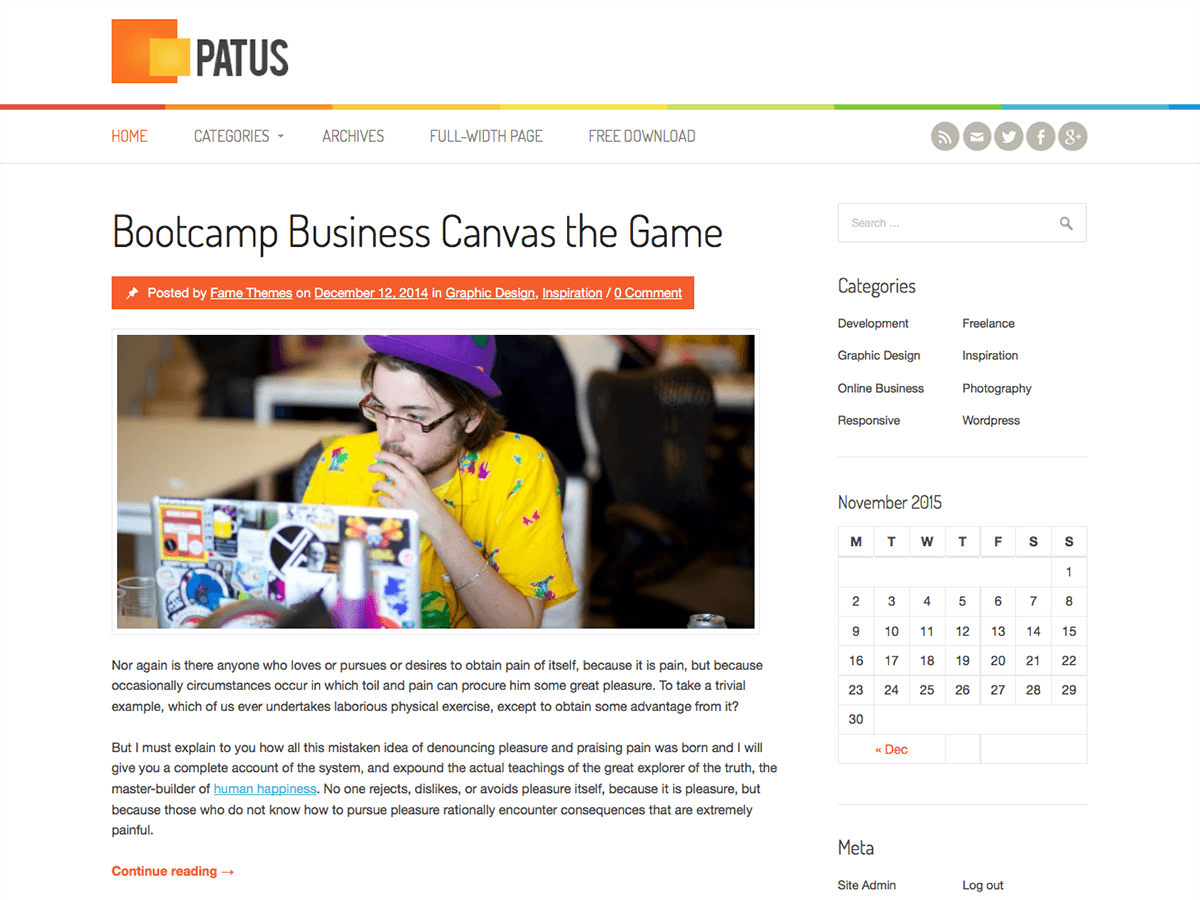
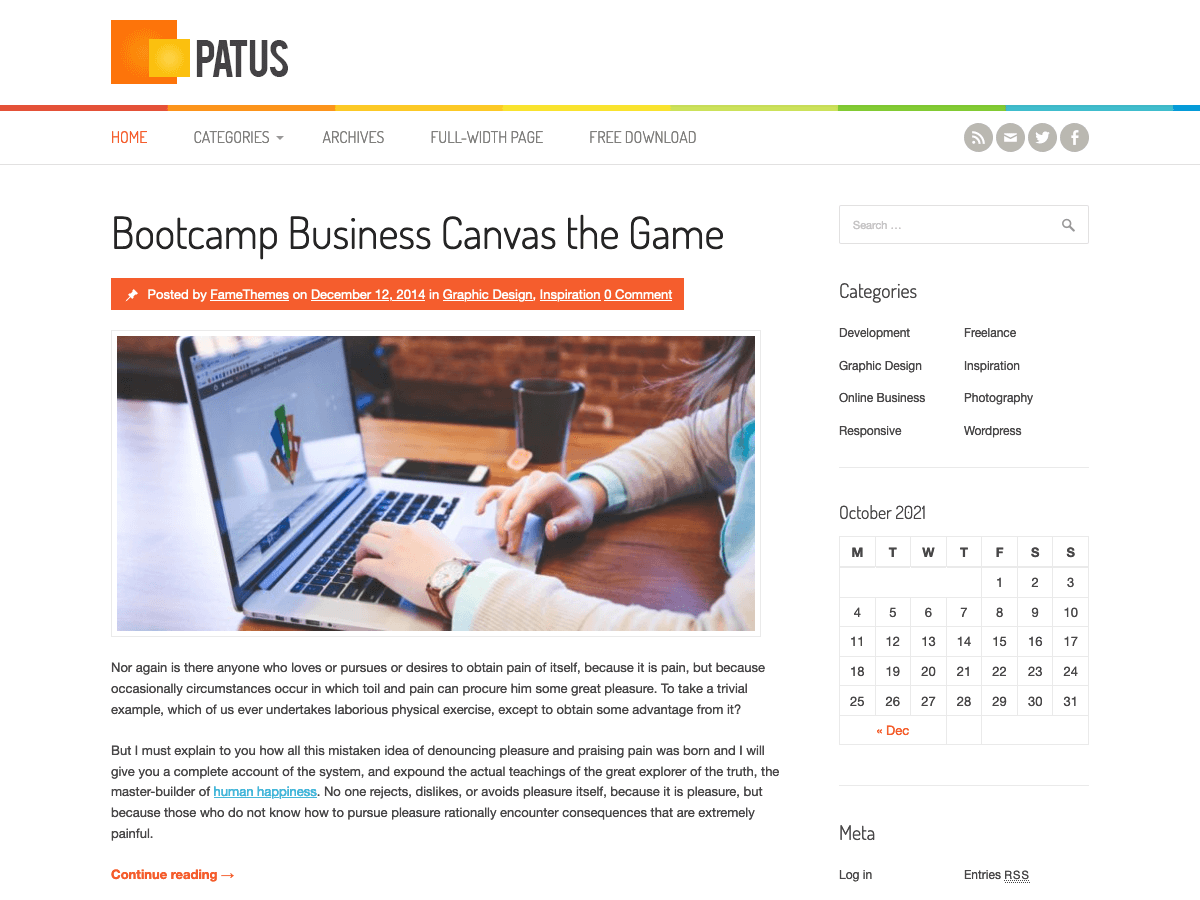
v1.1.0
* Fixed WordPress Theme Check.
* WordPress 5.8 compatiable.

diff --git a/style.css b/style.css
@@ -4,11 +4,18 @@ Theme URI: http://www.famethemes.com/themes/patus
 Author: FameThemes
 Author URI: http://www.famethemes.com
 Description: Patus is a Personal Blogging Theme for WordPress and an effortlessly tool for publishers of all kind, cherished for its flexibility, clean layouts and speed. It's totally responsive so it adapts to your style as well as the device it's viewed on.
-Version: 1.0.9
-License: GNU General Public License v2 or later
+Version: 1.1.0
+License: GNU General Public License v3 or later
 License URI: http://www.gnu.org/licenses/gpl-2.0.html
 Text Domain: patus
+Tested up to: 5.8
+Requires PHP: 5.6
 Tags:two-columns, left-sidebar, right-sidebar, custom-background, custom-colors, custom-header, custom-menu, editor-style, featured-image-header, featured-images, flexible-header, full-width-template, rtl-language-support, sticky-post, theme-options, threaded-comments, translation-ready
+
+This theme, like WordPress, is licensed under the GPL.
+
+Glow is based on Underscores http://underscores.me/, (C) 2012-2015 Automattic, Inc.
+
 */
 /*--------------------------------------------------------------
 >>> TABLE OF CONTENTS:

diff --git a/header.php b/header.php
@@ -17,6 +17,14 @@
 </head>
 
 <body <?php body_class(); ?>>
+<?php
+	//wp_body_open hook from WordPress 5.2
+	if ( function_exists( 'wp_body_open' ) ) {
+		wp_body_open();
+	} else {
+		do_action( 'wp_body_open' );
+	}
+?>
 <div id="page" class="hfeed site">
 	<a class="skip-link screen-reader-text" href="#content"><?php esc_html_e( 'Skip to content', 'patus' ); ?></a>
 
@@ -42,13 +50,12 @@
 		<nav id="site-navigation" class="main-navigation" role="navigation">
 			<div class="container">
 				<button class="menu-toggle"><span class="genericon genericon-menu"></span></button>
-				<?php wp_nav_menu( array( 'theme_location' => 'primary' ) ); ?>
+				<?php if ( has_nav_menu('primary') ) { wp_nav_menu( array( 'theme_location' => 'primary' ) ); }  ?>
 				<ul class="nav-social">
 					<?php if ( get_theme_mod('ft_social_rss') != '' ) { echo '<li><a href="'. esc_url( get_theme_mod('ft_social_rss') ) .'"><span class="genericon genericon-feed"></span></a></li>'; } ?>
 					<?php if ( get_theme_mod('ft_social_email') != '' ) { echo '<li><a href="mailto:'. antispambot( get_theme_mod('ft_social_email') ) .'"><span class="genericon genericon-mail"></span></a></li>'; } ?>
 					<?php if ( get_theme_mod('ft_social_twitter') != '' ) { echo '<li><a href="'. esc_url( get_theme_mod('ft_social_twitter') ) .'"><span class="genericon genericon-twitter"></span></a></li>'; } ?>
 					<?php if ( get_theme_mod('ft_social_facebook') != '' ) { echo '<li><a href="'. esc_url( get_theme_mod('ft_social_facebook') ) .'"><span class="genericon genericon-facebook-alt"></span></a></li>'; } ?>
-					<?php if ( get_theme_mod('ft_social_google') != '' ) { echo '<li><a href="'. esc_url( get_theme_mod('ft_social_google') ) .'"><span class="genericon genericon-googleplus-alt"></span></a></li>'; } ?>
 				</ul>
 			</div>
 		</nav><!-- #site-navigation -->

diff --git a/inc/dashboard.php b/inc/dashboard.php
@@ -46,7 +46,7 @@ function patus_theme_info_page() {
 						<h3>Theme Documentation</h3>
 						<p class="about"><?php printf(esc_html__('Need any help to setup and configure %s? Please have a look at our documentations instructions.', 'patus'), $theme_data->Name); ?></p>
 						<p>
-							<a href="<?php echo esc_url( esc_html__( 'http://docs.famethemes.com/category/115-patus', 'patus' ) ); ?>" target="_blank" class="button button-secondary"><?php esc_html_e('Online Documentation', 'patus'); ?></a>
+							<a href="<?php echo esc_url( esc_html__( 'https://docs.famethemes.com/category/115-patus', 'patus' ) ); ?>" target="_blank" class="button button-secondary"><?php esc_html_e('Online Documentation', 'patus'); ?></a>
 						</p>
 					</div>
 					<div class="theme_link">
@@ -60,7 +60,7 @@ function patus_theme_info_page() {
 
 				<div class="theme_info_right">
 
-					<img src="<?php echo get_template_directory_uri(); ?>/screenshot.png" alt="Theme Screenshot" />
+					<img src="<?php echo esc_url(get_template_directory_uri()); ?>/screenshot.png" alt="Theme Screenshot" />
 
 				</div>
 			</div>

diff --git a/inc/extras.php b/inc/extras.php
@@ -44,37 +44,6 @@ function patus_body_classes( $classes ) {
 }
 add_filter( 'body_class', 'patus_body_classes' );
 
-/**
- * Filters wp_title to print a neat <title> tag based on what is being viewed.
- *
- * @param string $title Default title text for current view.
- * @param string $sep Optional separator.
- * @return string The filtered title.
- */
-function patus_wp_title( $title, $sep ) {
-	if ( is_feed() ) {
-		return $title;
-	}
-
-	global $page, $paged;
-
-	// Add the blog name
-	$title .= get_bloginfo( 'name', 'display' );
-
-	// Add the blog description for the home/front page.
-	$site_description = get_bloginfo( 'description', 'display' );
-	if ( $site_description && ( is_home() || is_front_page() ) ) {
-		$title .= " $sep $site_description";
-	}
-
-	// Add a page number if necessary:
-	if ( ( $paged >= 2 || $page >= 2 ) && ! is_404() ) {
-		$title .= " $sep " . sprintf( esc_html__( 'Page %s', 'patus' ), max( $paged, $page ) );
-	}
-
-	return $title;
-}
-add_filter( 'wp_title', 'patus_wp_title', 10, 2 );
 
 /**
  * Sets the authordata global when viewing an author archive.

diff --git a/inc/customizer.php b/inc/customizer.php
@@ -108,19 +108,6 @@ function patus_customize_register( $wp_customize ) {
         'priority' => '4'
     ) );
 
-    /* Google Plus */
-    $wp_customize->add_setting( 'ft_social_google', array(
-        'default'   => '',
-        'transport' => 'refresh',
-        'sanitize_callback' => 'esc_url_raw'
-    ) );
-    $wp_customize->add_control( 'ft_social_google', array(
-        'settings' => 'ft_social_google',
-        'section'  => 'ft_social',
-        'label'    => esc_html__( 'Google Plus Link:', 'patus' ),
-        'priority' => '4'
-    ) );
-
     /* Colors Settings
     --------------------------------------------------------------------------*/
     

diff --git a/functions.php b/functions.php
@@ -76,6 +76,15 @@ function patus_setup() {
 		'flex-width'  => true,
 		'flex-height' => true,
 	) );
+
+	// Add support for Block Styles.
+	add_theme_support( 'wp-block-styles' );
+	
+	// Add support for full and wide align images.
+	add_theme_support( 'align-wide' );
+
+	// Add support for responsive embedded content.
+	add_theme_support( 'responsive-embeds' );
 }
 endif; // patus_setup
 add_action( 'after_setup_theme', 'patus_setup' );

diff --git a/CHANGELOG.md b/CHANGELOG.md
@@ -1,6 +1,10 @@
 ====================================================================
 CHANGELOG
 ====================================================================
+## 1.1.0
+* Fixed WordPress Theme Check.
+* WordPress 5.8 compatiable.
+
 ## 1.0.9
 * Add Demo Importer tab
 * Fixed header image
